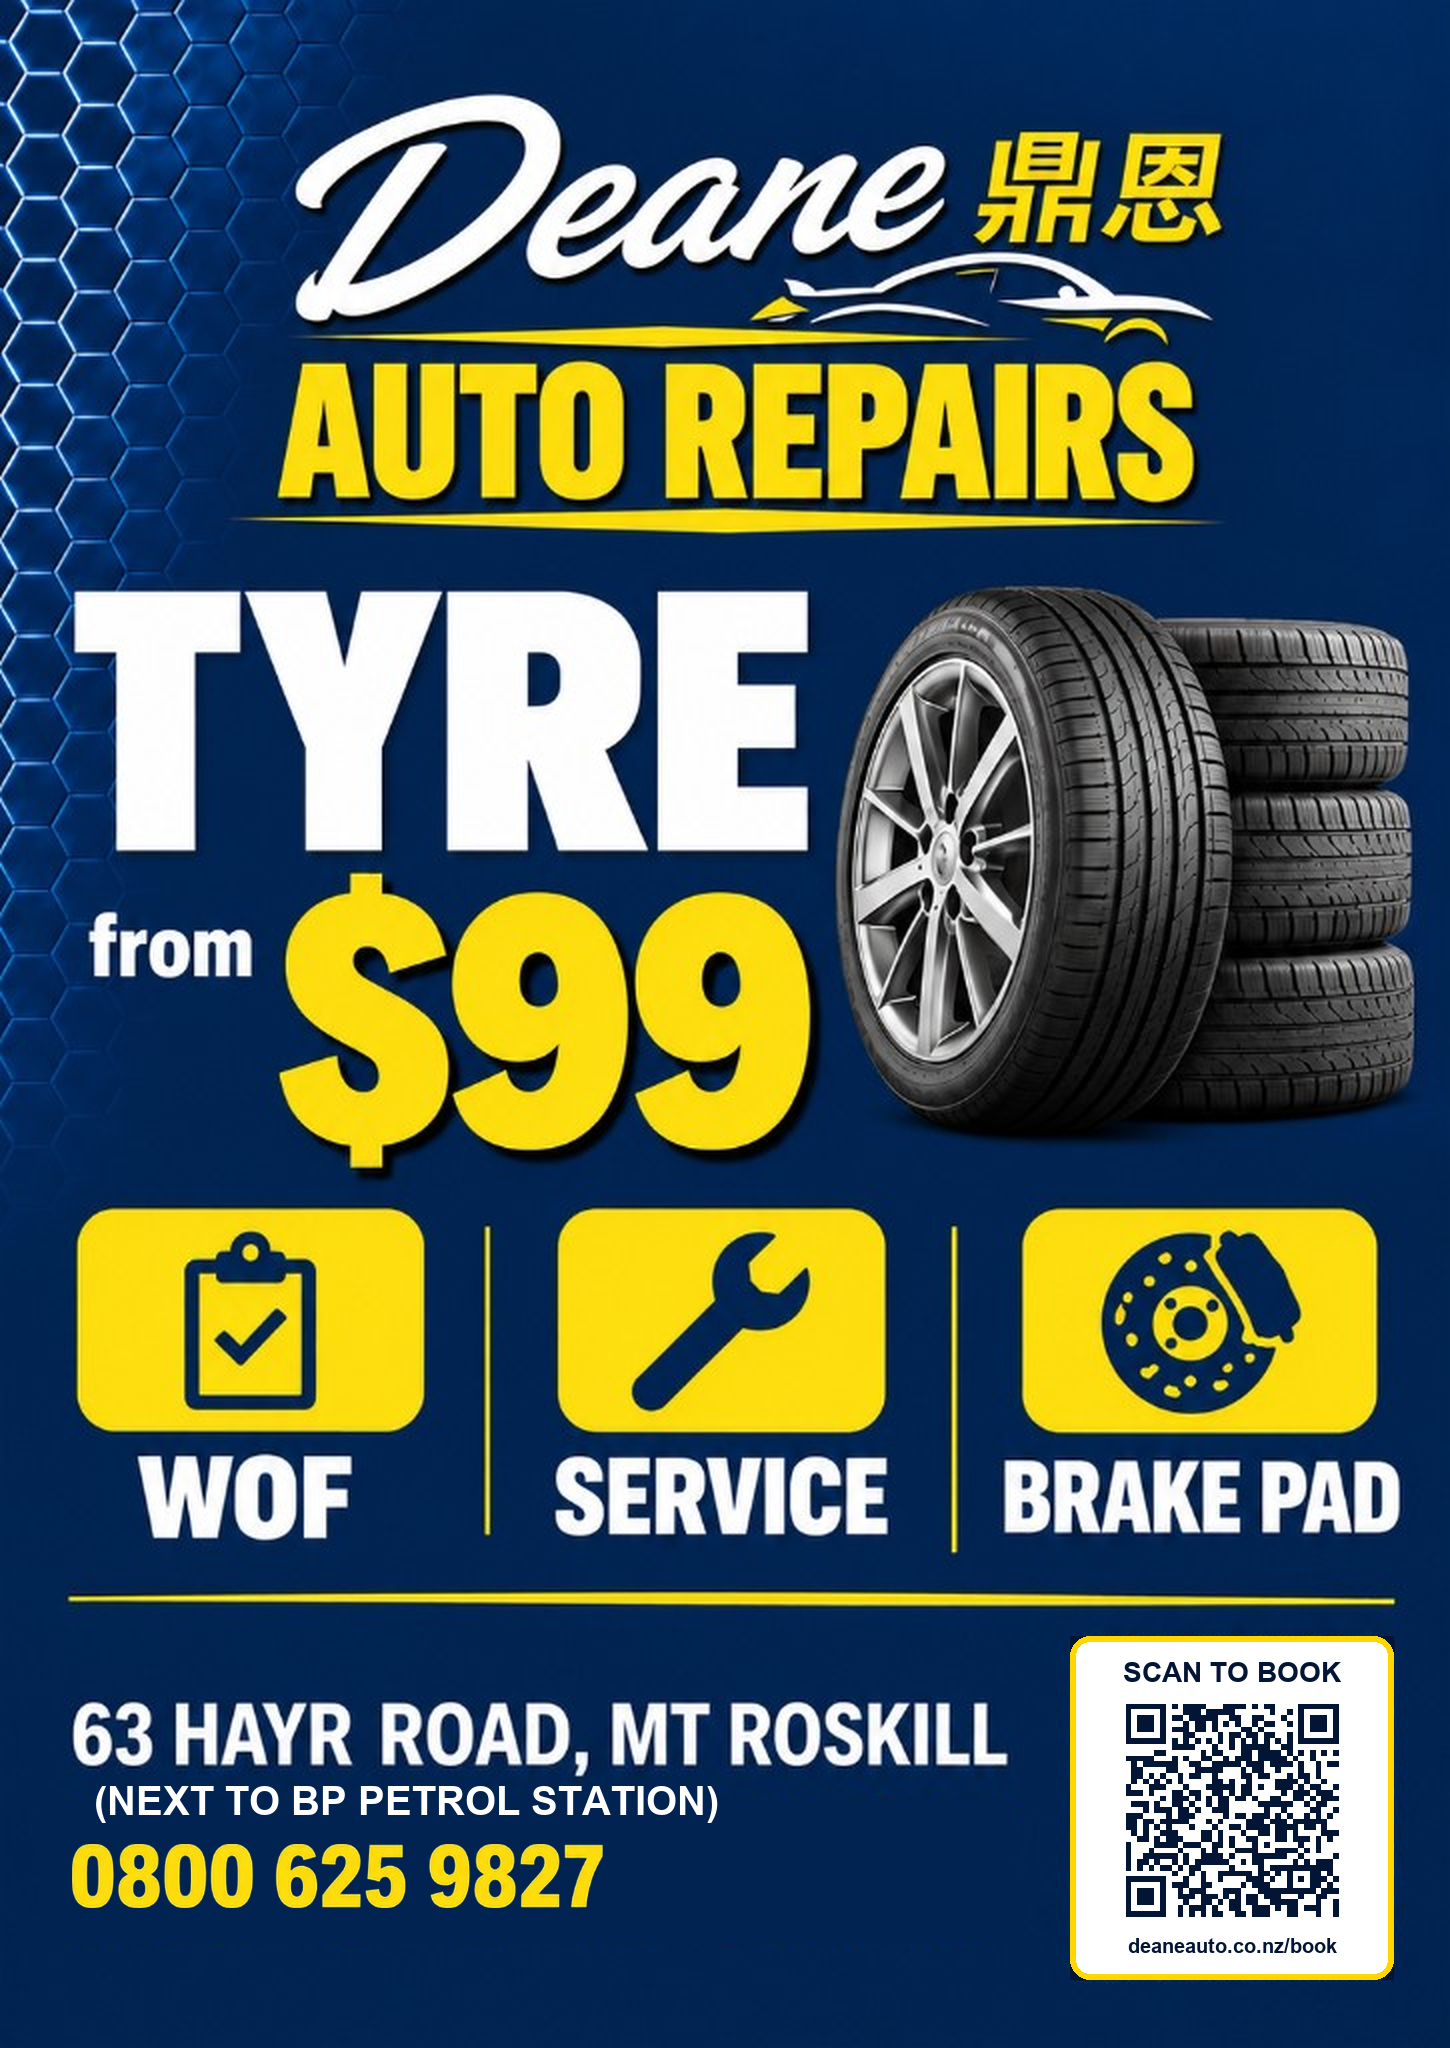
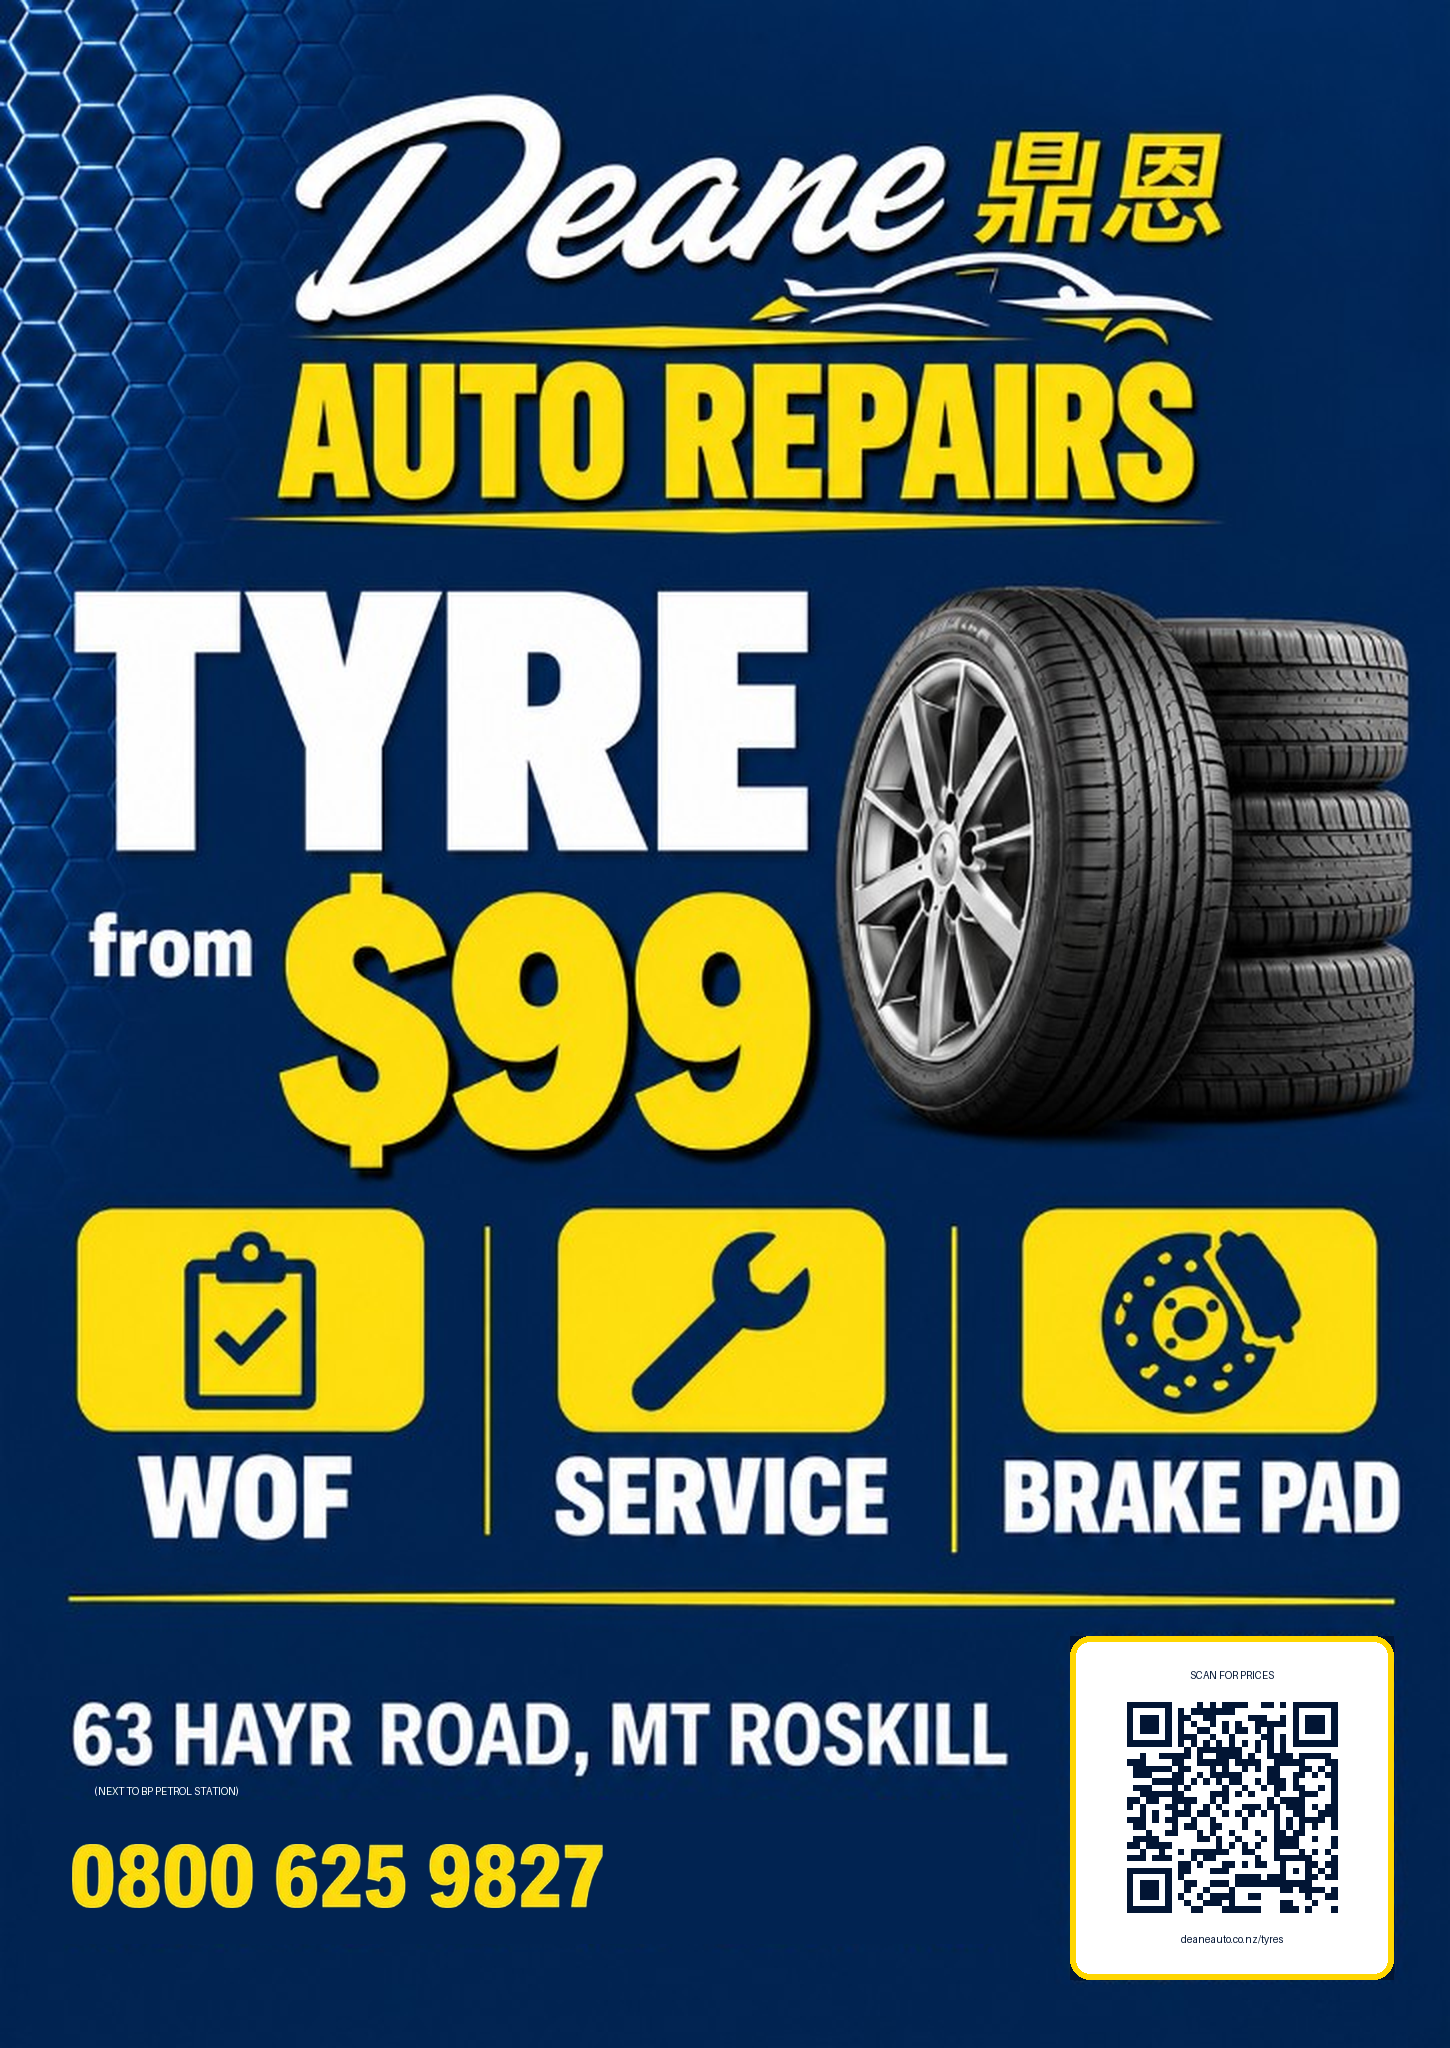
Add printable QR for online tyre prices
Generate a scannable QR and sticker that open
https://www.deaneauto.co.nz/tyres/ so ad customers
can check fitted prices by size. Tyre posters now
use the same prices QR instead of the booking form.

Changed region(s): [[0.7759, 0.8125, 0.931, 0.9688], [0.0621, 0.875, 0.4966, 0.9062]]

diff --git a/scripts/make-booking-qr.js b/scripts/make-booking-qr.js
@@ -18,6 +18,8 @@ const TARGETS = [
   { file: "book-service.png", path: "/book?help=service" },
   { file: "book-brakes.png", path: "/book?help=brakes" },
   { file: "book-tyres.png", path: "/book?help=tyres" },
+  // Ads / stickers: open the online tyre price finder (not the booking form).
+  { file: "tyre-prices.png", path: "/tyres/" },
 ];
 
 const QR_OPTS = {
@@ -37,14 +39,23 @@ async function main() {
     console.log(`QR ${row.file} → ${url}`);
   }
 
-  const overlay = spawnSync("python", [path.join(__dirname, "overlay-booking-qr.py")], {
+  // Prefer python3 (Linux/Cloud); fall back to python on Windows.
+  const py = process.platform === "win32" ? "python" : "python3";
+  const overlay = spawnSync(py, [path.join(__dirname, "overlay-booking-qr.py")], {
     cwd: ROOT,
     encoding: "utf8",
   });
   if (overlay.stdout) process.stdout.write(overlay.stdout);
   if (overlay.stderr) process.stderr.write(overlay.stderr);
   if (overlay.status !== 0) {
-    throw new Error(`QR overlay failed with exit ${overlay.status}`);
+    // Tyre-price QR + sticker are written before optional OpenCV poster variants.
+    // Don't fail the whole job if cv2 is missing in this environment.
+    const errText = `${overlay.stderr || ""}${overlay.stdout || ""}`;
+    if (/No module named 'cv2'|ModuleNotFoundError/.test(errText)) {
+      console.warn("Poster overlay skipped (OpenCV not installed). Tyre QR assets are ready.");
+    } else {
+      throw new Error(`QR overlay failed with exit ${overlay.status}`);
+    }
   }
   console.log(`Posters with QR saved in ${ADS_DIR}`);
 }

diff --git a/scripts/overlay-booking-qr.py b/scripts/overlay-booking-qr.py
@@ -87,11 +87,14 @@ def overlay_poster(poster_path: Path, qr_path: Path, out_path: Path, place: str)
     print(f"poster {out_path.name} ({place})")
 
 
-def make_sticker(qr_path: Path, out_path: Path) -> None:
+def make_sticker(
+    qr_path: Path,
+    out_path: Path,
+    title: str = "SCAN TO BOOK",
+    url: str = "www.deaneauto.co.nz/book",
+) -> None:
     qr = Image.open(qr_path).convert("RGB")
     pad = 36
-    title = "SCAN TO BOOK"
-    url = "www.deaneauto.co.nz/book"
     title_font = font(36, bold=True)
     url_font = font(22, bold=False)
     probe = ImageDraw.Draw(Image.new("RGB", (10, 10)))
@@ -123,12 +126,17 @@ TYRE_SUBLINE = "(NEXT TO BP PETROL STATION)"
 YELLOW = (255, 214, 0)
 
 
-def make_box_card(qr_path: Path, width: int, height: int, s: int) -> Image.Image:
+def make_box_card(
+    qr_path: Path,
+    width: int,
+    height: int,
+    s: int,
+    title: str = "SCAN TO BOOK",
+    url: str = "deaneauto.co.nz/book",
+) -> Image.Image:
     card = Image.new("RGB", (width, height), NAVY)
     draw = ImageDraw.Draw(card)
     draw.rounded_rectangle((0, 0, width - 1, height - 1), radius=10 * s, fill=WHITE, outline=YELLOW, width=3 * s)
-    title = "SCAN TO BOOK"
-    url = "deaneauto.co.nz/book"
     title_font = font(14 * s, bold=True)
     url_font = font(10 * s, bold=True)
     qr_px = 118 * s
@@ -144,6 +152,10 @@ def make_box_card(qr_path: Path, width: int, height: int, s: int) -> Image.Image
     url_y = top + title_h + gap + qr_px + gap
     draw.text(((width - (u_box[2] - u_box[0])) / 2 - u_box[0], url_y - u_box[1]), url, fill=NAVY, font=url_font)
     return card
+
+
+TYRE_CARD_TITLE = "SCAN FOR PRICES"
+TYRE_CARD_URL = "deaneauto.co.nz/tyres"
 
 
 def tyre_poster(qr_path: Path) -> None:
@@ -173,7 +185,9 @@ def tyre_poster(qr_path: Path) -> None:
     draw.text((sx * s - box[0], sy * s - box[1]), TYRE_SUBLINE, fill=WHITE, font=sub_font)
 
     bx0, by0, bx1, by1 = (v * s for v in TYRE_QR_BOX)
-    card = make_box_card(qr_path, bx1 - bx0, by1 - by0, s)
+    card = make_box_card(
+        qr_path, bx1 - bx0, by1 - by0, s, title=TYRE_CARD_TITLE, url=TYRE_CARD_URL
+    )
     poster.paste(card, (bx0, by0))
 
     out = ADS_DIR / TYRE_POSTER.replace(".jpg", "-qr.png")
@@ -197,10 +211,22 @@ def load_cn_poster() -> Image.Image:
 
 
 def tyre_poster_cn(qr_path: Path) -> None:
-    finish_cn_poster(load_cn_poster(), qr_path, TYRE_CN_POSTER.replace(".jpg", "-qr.png"))
+    finish_cn_poster(
+        load_cn_poster(),
+        qr_path,
+        TYRE_CN_POSTER.replace(".jpg", "-qr.png"),
+        title=TYRE_CARD_TITLE,
+        url=TYRE_CARD_URL,
+    )
 
 
-def finish_cn_poster(poster: Image.Image, qr_path: Path, out_name: str) -> None:
+def finish_cn_poster(
+    poster: Image.Image,
+    qr_path: Path,
+    out_name: str,
+    title: str = "SCAN TO BOOK",
+    url: str = "deaneauto.co.nz/book",
+) -> None:
     s = TYRE_SCALE
     px = poster.load()
 
@@ -224,7 +250,7 @@ def finish_cn_poster(poster: Image.Image, qr_path: Path, out_name: str) -> None:
     draw.text((sx * s - box[0], sy * s - box[1]), TYRE_SUBLINE, fill=WHITE, font=sub_font)
 
     bx0, by0, bx1, by1 = (v * s for v in TYRE_CN_QR_BOX)
-    card = make_box_card(qr_path, bx1 - bx0, by1 - by0, s)
+    card = make_box_card(qr_path, bx1 - bx0, by1 - by0, s, title=title, url=url)
     poster.paste(card, (bx0, by0))
 
     out = ADS_DIR / out_name
@@ -641,11 +667,19 @@ def wof_poster(qr_path: Path) -> None:
 def main() -> None:
     QR_DIR.mkdir(parents=True, exist_ok=True)
     general = QR_DIR / "book.png"
+    tyre_prices = QR_DIR / "tyre-prices.png"
     make_sticker(general, QR_DIR / "scan-to-book-sticker.png")
+    make_sticker(
+        tyre_prices,
+        QR_DIR / "scan-tyre-prices-sticker.png",
+        title="SCAN FOR TYRE PRICES",
+        url="www.deaneauto.co.nz/tyres",
+    )
     for poster_name, qr_name, place in POSTERS:
         overlay_poster(ADS_DIR / poster_name, QR_DIR / qr_name, ADS_DIR / poster_name.replace(".png", "-qr.png"), place)
-    tyre_poster(QR_DIR / "book-tyres.png")
-    tyre_poster_cn(QR_DIR / "book-tyres.png")
+    # Tyre ads open the live price finder so customers can check their size.
+    tyre_poster(tyre_prices)
+    tyre_poster_cn(tyre_prices)
     wof_poster_cn(QR_DIR / "book-wof.png")
     wof_poster(QR_DIR / "book-wof.png")
     service_poster_cn(QR_DIR / "book-basic-service.png")

diff --git a/README.md b/README.md
@@ -49,6 +49,9 @@ On Render, set `ADMIN_PIN` in Environment (not in Git). If it is missing or too 
 | `docs/service-checklist-and-wof-notes.md` | Spec |
 | `facebook-page.txt` | Facebook copy kit |
 | `pre-purchase/ppi-form.html` | Pre-purchase report form with photo upload slots |
+| `tyres/` | Public tyre price finder (QR target: `https://www.deaneauto.co.nz/tyres/`) |
+| `assets/qr/tyre-prices.png` | Print-ready QR for ads → tyre prices |
+| `assets/qr/scan-tyre-prices-sticker.png` | Labeled sticker: Scan for tyre prices |
 
 Reports are stored in `data/reports.json` on this computer (simple local MVP).
 Quotes and invoices are stored in `data/billing.json` (workshop only — no bank data).
